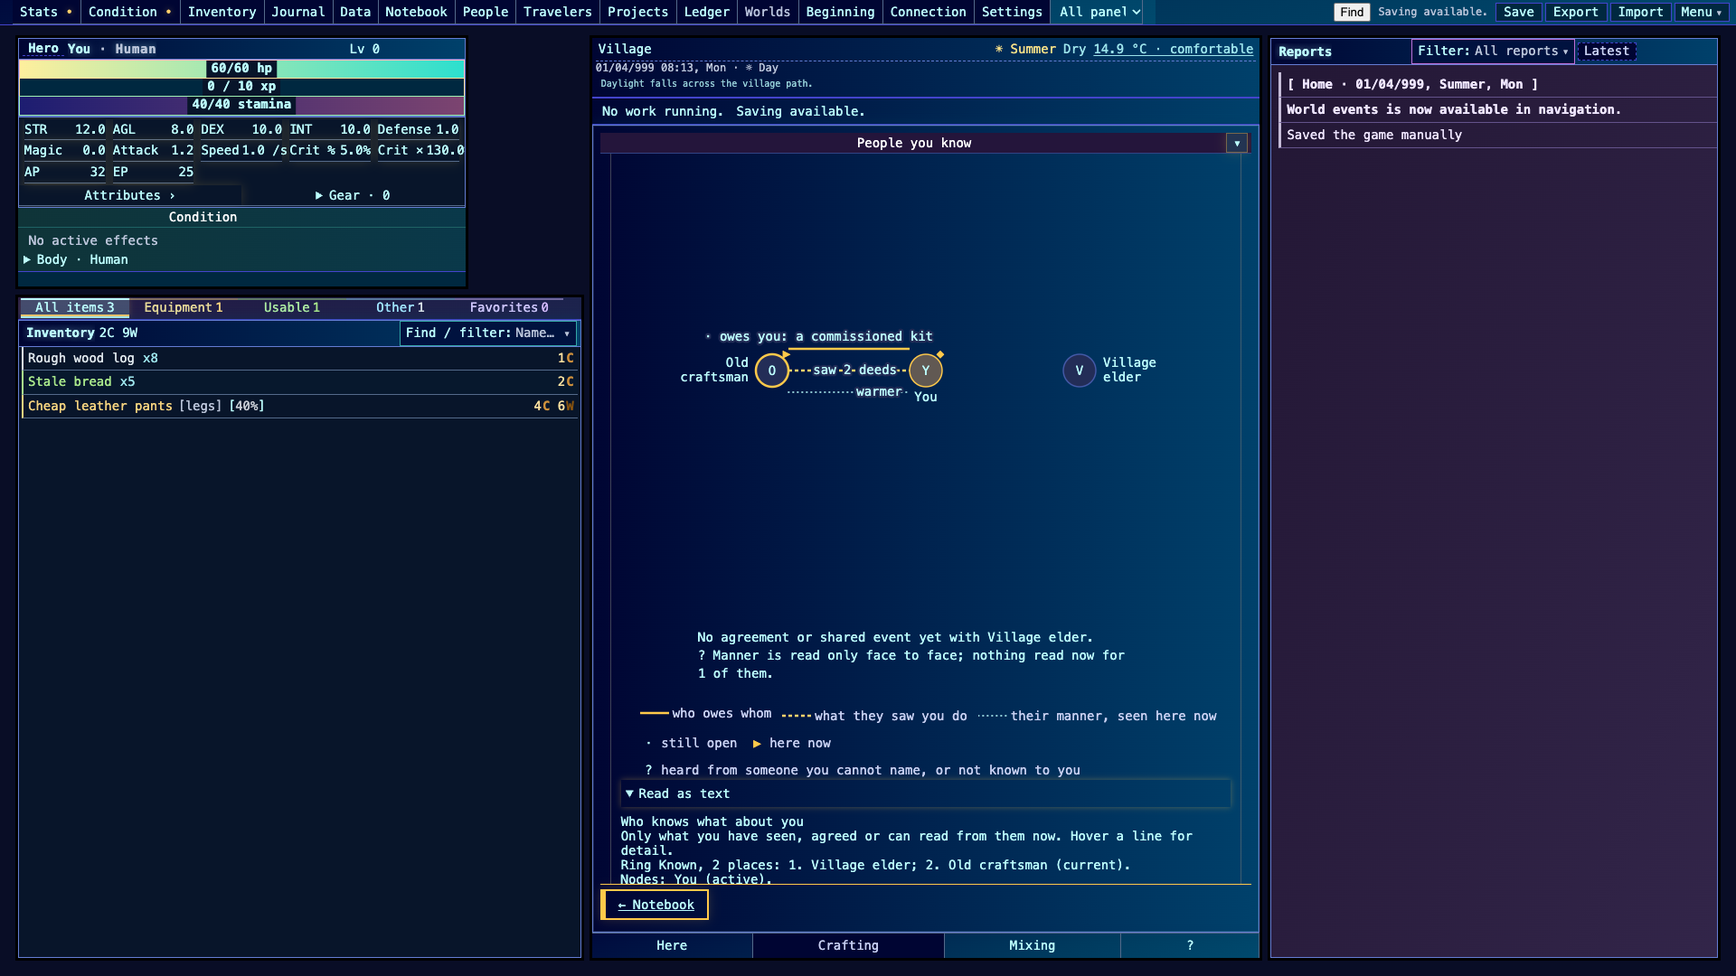
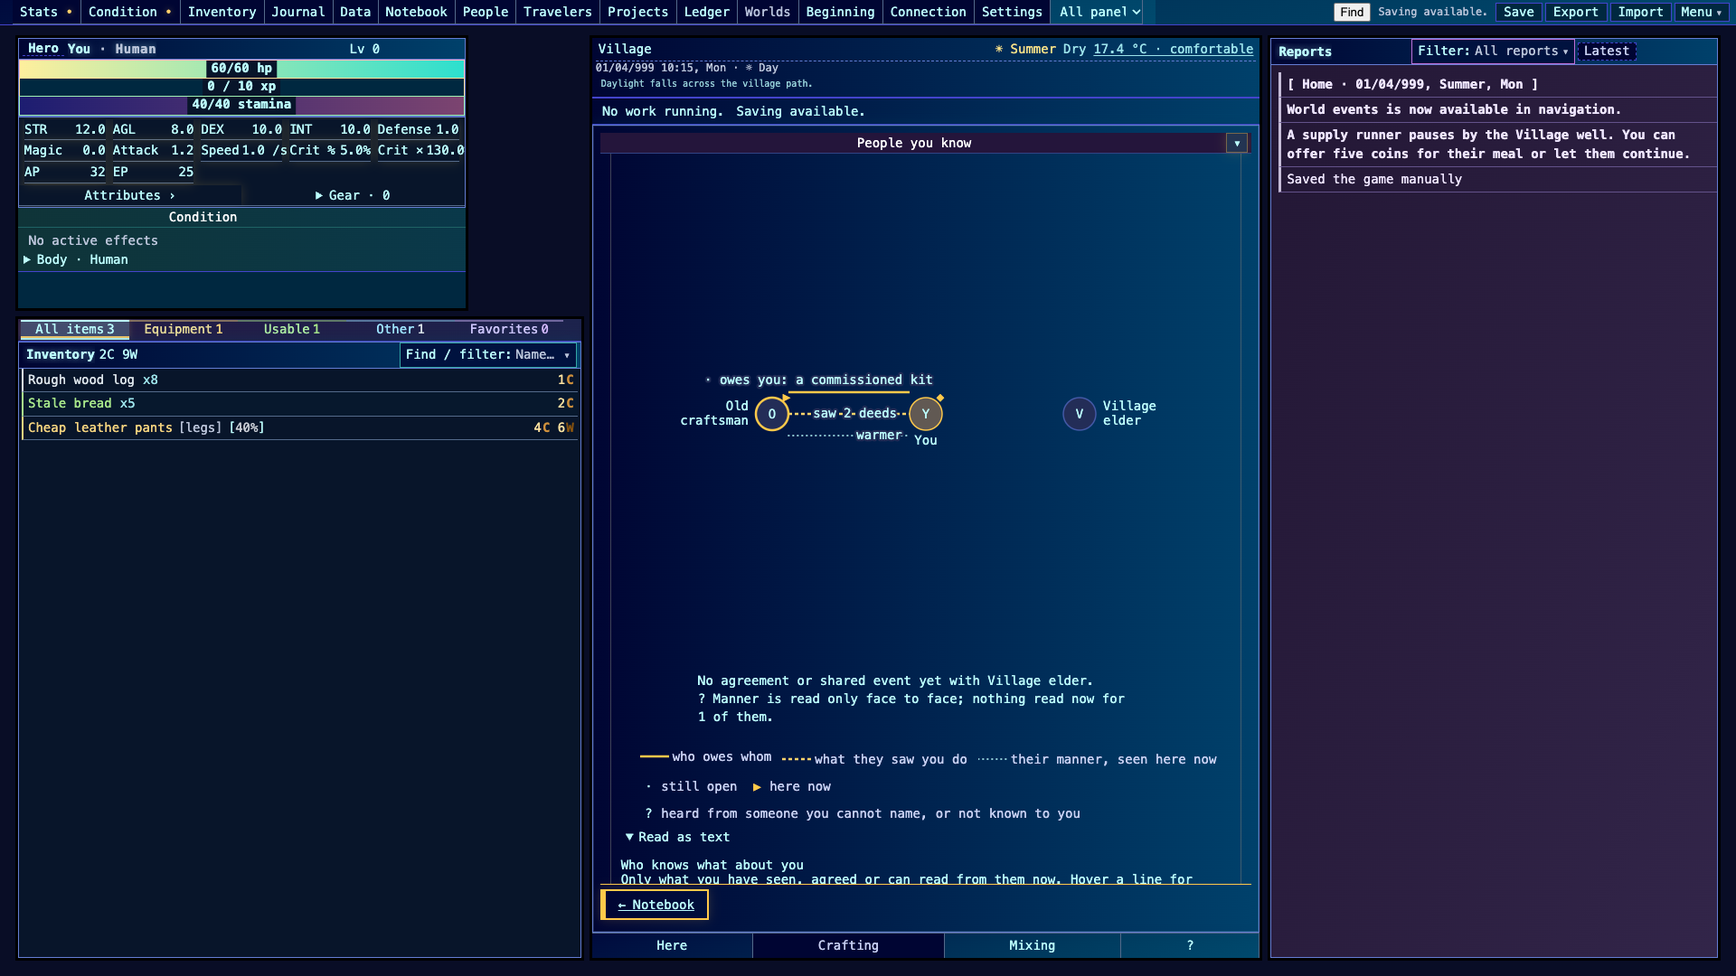
RPX11 round 2: bond stages in person cards, web demoted to a disclosure
Round 2 review (reference games, fresh-player test, density, bars, pop-out,
insight, forms, depth) saved in docs/representations/RELATIONSHIP_WEB.md.
Acted on: a five-stage bond ladder from evidence the observer has (Met,
Acquainted, Familiar, Relied on, Close), a one-line glance in each person
card's summary, and a discrete bond bar inside the card through the
existing meter_bar.js track kind, with what moves it next and today's
observed manner. The web is now a closed "Web of who knows what" with a
count, since a fresh life opened onto a large one-node figure.

Checks: focused tests 20 pass; check:docs clean; 1920x1080 browser proof
on bundle v0.6-a682e3246431 through the slot limiter, 0 page errors. Full
suite left to the coordinator at merge.

diff --git a/src/people_ui.js b/src/people_ui.js
@@ -1,17 +1,20 @@
 import {knownPeopleView} from "./people_knowledge.js";
 import {domainRegistry} from "./domain_registry.js";
-import {relationshipWebForState} from "./relationship_web_view.js";
+import {relationshipWebPeople} from "./relationship_web_view.js";
+import {relationshipWebSpec, relationshipGlance, relationshipStageMeter} from "./ui/relationship_web.js";
 import {renderFigure} from "./ui/figure.js";
+import {createMeterBar} from "./meter_bar.js";
 
 const node = (tag, text = "") => {const n = document.createElement(tag); n.textContent = text; return n;};
 export function createPeopleOverview() {
     const panel = node("section"); panel.id = "known_people_panel"; panel.className = "expedition_panel known_people_panel";
     panel.append(node("h3", "People you know"), node("p", "What you have learned and what happened between you. Locations are last known or agreed, rather than live reports."));
-    // RPX11 web: a sibling of the cards, never inside one; redrawn only when its spec changes.
-    const web = node("details"); web.id = "relationship_web"; web.className = "relationship_web"; web.open = true;
-    const figure = node("div"), textForm = node("details"), text = node("pre");
+    // RPX11 web: a sibling of the cards, never inside one; redrawn only when its spec changes. Closed by
+    // default: each card's glance line and bond bar answer the frequent question, the web the rarer one.
+    const web = node("details"); web.id = "relationship_web"; web.className = "relationship_web";
+    const webSummary = node("summary", "Web of who knows what"), figure = node("div"), textForm = node("details"), text = node("pre");
     textForm.append(node("summary", "Read as text"), text); text.className = "fig-text";
-    web.append(node("summary", "Web of who knows what"), figure, textForm);
+    web.append(webSummary, figure, textForm);
     const list = node("div"); panel.append(web, list);
     let webSignature = "";
     const cards = new Map();
@@ -21,10 +24,17 @@ export function createPeopleOverview() {
         const shared = name => rows.filter(row => row.name === name).length > 1;
         const title = row => shared(row.name) ? `${row.name} (${row.location.replace(/^[^:]*:\s*/, "")})` : row.name;
         panel.hidden = !rows.length;
-        // The web is an extra view: if its reads fail on an unusual save, hide it and keep the cards.
+        // The web, glance lines and bond bars are extra views: if their reads fail on an unusual save,
+        // hide them and keep the cards.
+        let bonds = new Map();
         try {
-            const spec = rows.length ? relationshipWebForState(state, facts, {rows, memory: domainRegistry.command("memory", "read")?.()}) : null, signature = JSON.stringify(spec);
-            if(signature !== webSignature) {webSignature = signature; if(spec) text.textContent = renderFigure(figure, spec, {idPrefix: "relationship-web"}).text;}
+            const people = rows.length ? relationshipWebPeople(state, facts, {rows, memory: domainRegistry.command("memory", "read")?.()}) : [];
+            bonds = new Map(people.map(person => [person.id, person]));
+            const spec = people.length ? relationshipWebSpec(people) : null, signature = JSON.stringify(spec);
+            if(signature !== webSignature) {
+                webSignature = signature;
+                if(spec) {text.textContent = renderFigure(figure, spec, {idPrefix: "relationship-web"}).text; webSummary.textContent = `Web of who knows what · ${people.length} ${people.length === 1 ? "person" : "people"}`;}
+            }
             web.hidden = !spec;
         } catch(error) {
             web.hidden = true;
@@ -33,13 +43,17 @@ export function createPeopleOverview() {
         for(const row of rows) {
             let card = cards.get(row.id);
             if(!card) {
-                const root = node("details"), heading = node("summary", title(row)), location = node("p"), details = node("div"), history = node("ul");
-                root.dataset.knownPerson = row.id; root.append(heading, location, details, history); list.append(root);
-                card = {root, heading, location, details, history, signature:""}; cards.set(row.id, card);
+                const root = node("details"), heading = node("summary"), name = node("span", title(row)), glance = node("span"), location = node("p"), details = node("div"), history = node("ul"), bond = createMeterBar(document);
+                glance.className = "known_person_glance"; heading.append(name, glance); bond.node.hidden = true;
+                root.dataset.knownPerson = row.id; root.append(heading, bond.node, location, details, history); list.append(root);
+                card = {root, heading, name, glance, bond, location, details, history, signature:""}; cards.set(row.id, card);
             }
-            const signature = JSON.stringify([title(row), row]);
+            const person = bonds.get(row.id), signature = JSON.stringify([title(row), row, person || null]);
             if(signature !== card.signature) {
-                card.signature = signature; card.heading.textContent = title(row); card.location.textContent = row.location;
+                card.signature = signature; card.name.textContent = title(row); card.location.textContent = row.location;
+                // Glance first (stage and what needs attention), the bond bar one click away inside the card.
+                card.glance.textContent = person ? ` · ${relationshipGlance(person)}` : "";
+                card.bond.node.hidden = !person; if(person) card.bond.update(relationshipStageMeter(person));
                 if(row.accounts?.length){
                     card.details.replaceChildren(node('h4','Known capabilities and services'),node('p','These are your learned accounts. Current condition, private possessions and unoffered services are not assessed here. Use the person’s local service for current terms.'));
                     for(const account of row.accounts){const entry=node('div');entry.dataset.personAccount=account.id;entry.append(node('p',account.text),node('small',`${account.basis}${Number.isFinite(account.at)?` · played minute ${account.at}`:''}`));card.details.append(entry);}

diff --git a/tests/relationship_web.test.js b/tests/relationship_web.test.js
@@ -1,7 +1,8 @@
 import test from 'node:test';
 import assert from 'node:assert/strict';
 import {createDom} from '../scripts/headless/dom.mjs';
-import {relationshipWebSpec, WEB_LIMITS} from '../src/ui/relationship_web.js';
+import {relationshipWebSpec, WEB_LIMITS, relationshipStage, relationshipGlance, relationshipStageMeter, RELATIONSHIP_STAGES} from '../src/ui/relationship_web.js';
+import {normalizeMeter} from '../src/meter_bar.js';
 import {relationshipWebPeople, relationshipWebForState} from '../src/relationship_web_view.js';
 import {figureText, renderFigure, validateFigureSpec} from '../src/ui/figure.js';
 import {RELATIONSHIP_WEB_FIXTURES, RELATIONSHIP_WEB_PEOPLE} from '../src/ui/preview/fixtures/relationship_web.js';
@@ -91,8 +92,12 @@ test('the web renders as a sibling of the cards in the People panel with a text 
         assert.equal(web.closest('[data-known-person]'), null);
         assert.equal(web.querySelector('[data-known-person]'), null);
         assert.match(web.querySelector('pre.fig-text').textContent, /owes you: a commissioned kit/);
+        assert.equal(web.open, false, 'the web is a closed disclosure; cards carry the glance');
+        assert.match(web.querySelector('summary').textContent, /Web of who knows what · 1 person/);
         const card = people.panel.querySelector('[data-known-person="oldCraftsman"]');
-        assert.doesNotMatch(card.textContent, /owes|Who knows what/);
+        assert.equal(card.querySelector('summary .known_person_glance').textContent, ' · Familiar · here · owes you');
+        assert.match(card.querySelector('.meter-bar .meter-bar-label').textContent, /Bond: Familiar/);
+        assert.doesNotMatch(card.textContent, /Who knows what|99|fear/);
         const svg = web.querySelector('svg'); people.render(state, met);
         assert.equal(web.querySelector('svg'), svg, 'an unchanged spec is not redrawn');
     } finally { delete globalThis.document; }
@@ -111,4 +116,21 @@ test('edge labels: no two placed label boxes overlap in the populated fixture', 
         const a = boxes[i], b = boxes[j];
         assert.ok(!(a.x0 < b.x1 && a.x1 > b.x0 && a.y0 < b.y1 && a.y1 > b.y0), `labels ${i} and ${j} overlap`);
     }
+});
+
+test('relationship stages climb only on evidence the observer has, and the bar says what moves it', () => {
+    const base = {id: 'a', name: 'Ann', here: false, owes: [], saw: []};
+    const word = person => relationshipStage(person).word;
+    assert.equal(word(base), 'Met');
+    assert.equal(word({...base, saw: ['x']}), 'Acquainted');
+    assert.equal(word({...base, owes: [{by: 'you', label: 'a debt'}]}), 'Familiar');
+    assert.equal(word({...base, owes: [{by: 'you', label: 'a debt', settled: true}]}), 'Relied on');
+    assert.equal(word({...base, owes: [{by: 'you', label: 'a debt', settled: true}], manner: {line: 'Warmer toward you.', warm: true, heard: false}}), 'Close');
+    assert.equal(relationshipStage({...base, manner: {line: 'Wary of you.', warm: false, heard: false}}).strained, true);
+    assert.equal(relationshipGlance({...base, here: true, owes: [{by: 'them', label: 'x'}, {by: 'you', label: 'y', strained: true}]}), 'Familiar · here · you owe · owes you · needs care');
+    const meter = normalizeMeter(relationshipStageMeter({...base, saw: ['x']}));
+    assert.equal(meter.text, 'Bond: Acquainted 1/4'); assert.equal(meter.discrete, true);
+    assert.match(meter.note, /^Next: /);
+    assert.equal(normalizeMeter(relationshipStageMeter({...base, owes: [{by: 'you', label: 'd', settled: true}], trust: 1})).state, 'complete');
+    assert.equal(RELATIONSHIP_STAGES.length - 1, relationshipStage(base).max);
 });

diff --git a/src/ui/relationship_web.js b/src/ui/relationship_web.js
@@ -68,3 +68,39 @@ export function relationshipWebSpec(people, {id = 'relationship-web', title = 'W
     // Size dial: a small web for a few people, so one acquaintance does not fill the column.
     return {id, size: size ?? (shown.length < WEB_LIMITS.bands ? 560 : 720), title, summary: 'Only what you have seen, agreed or can read from them now. Hover a line for detail.', rings, nodes, edges, notes, legend};
 }
+
+// Relationship stages (round 2, proposal): depth from what the observer knows, never their hidden axes.
+// Each rung names the evidence that reaches it, so the bar can say what moves it next. The words are
+// a per-world dial (a court may say acquaintance, ally, confidant); the evidence rules stay the same.
+export const RELATIONSHIP_STAGES = Object.freeze([
+    {id: 'met', word: 'Met', next: 'share something with them: work, a favour, a question'},
+    {id: 'acquainted', word: 'Acquainted', next: 'see them often or make an agreement with them'},
+    {id: 'familiar', word: 'Familiar', next: 'settle an agreement with them'},
+    {id: 'relied', word: 'Relied on', next: 'after a settled agreement, see them warm toward you or come to trust them yourself'},
+    {id: 'close', word: 'Close', next: ''},
+]);
+const reached = person => {
+    const settled = person.owes.some(o => o.settled), warm = person.manner?.warm === true || person.trust > 0;
+    if (settled && warm) return 4;
+    if (settled) return 3;
+    if (person.saw.length >= 3 || person.owes.length) return 2;
+    return person.saw.length ? 1 : 0;
+};
+/** Stage and its strain, from the same person input as the web. */
+export function relationshipStage(person) {
+    const index = reached(person), stage = RELATIONSHIP_STAGES[index];
+    return {...stage, index, max: RELATIONSHIP_STAGES.length - 1, strained: strained(person)};
+}
+/** One glance line for a person card summary: stage, then only the signals that need attention. */
+export function relationshipGlance(person) {
+    const stage = relationshipStage(person), open = person.owes.filter(o => !o.settled);
+    return [stage.word, person.here ? 'here' : '', open.some(o => o.by === 'you') ? 'you owe' : '', open.some(o => o.by === 'them') ? 'owes you' : '',
+        stage.strained ? 'needs care' : ''].filter(Boolean).join(' · ');
+}
+/** A meter_bar.js spec (discrete track) for the stage, with what moves it and what was read today. */
+export function relationshipStageMeter(person) {
+    const stage = relationshipStage(person);
+    return {id: `bond.${person.id}`, label: `Bond: ${stage.word}`, kind: 'track', value: stage.index, max: stage.max, discrete: true,
+        note: stage.next ? `Next: ${stage.next}.` : 'The highest stage this world names.',
+        ...(person.manner ? {observation: {text: `Seen here now: ${person.manner.line.replace(/\.$/, '')}`}} : {})};
+}

diff --git a/docs/representations/RELATIONSHIP_WEB.md b/docs/representations/RELATIONSHIP_WEB.md
@@ -182,3 +182,159 @@ own traced rumours: a "you asked who told them" verb that records a teller
 into the observer's knowledge, so the ripple fills ring by ring. (3) Read
 debts from the owed-ledger sources once merged. (4) RW3 exposure map for a
 hidden-identity start, with its per-world fact list.
+
+## Round 2 (2026-10-30, proposals)
+
+Brief: [round 2](../gm/dispatch/ui-refactor-wave-2026-10-29/ROUND2_BRIEF.md). Everything here,
+round 1 included, is the current best and open to replacement with a reason (AD45).
+
+### R2.1 How other games do it
+
+Claims are from general knowledge of these games' public play and docs, not from a play
+session this round; the "adapt" column is inference.
+
+| Game | What the player sees | Easy / costly | Idea adapted |
+|---|---|---|---|
+| Crusader Kings III | Opinion as a number with a hover breakdown of signed reasons; hooks and secrets as separate icons | Easy to see *why*; costly in reading load and numbers without felt meaning | Every stage and edge carries its *reason* (the evidence), shown on hover or in the text form |
+| RimWorld | Social tab: a list of pawns with an opinion number, the breakdown in a tooltip | One list answers "who likes whom"; tooltips hide the point | A list, not a graph, is the frequent view; reasons one hover away |
+| Stardew Valley | Heart bars per person, gifts this week, a birthday | Glanceable and warm; hides that hearts are a hidden number | The **bond bar** with discrete steps and a "next" line (adapted, with stages from known evidence rather than a hidden number) |
+| Persona 5 | Confidant ranks 1-10, what the next rank unlocks | Clear depth and goals | **Stages that say what moves them** and what the next one means |
+| Dwarf Fortress | Plain relationship lists in a unit's thoughts | Honest, dense, no shape | Plain-words text form stays first-class |
+| The Sims 4 | Two bars (friendship, romance) per relationship | Two axes at a glance | Keep axes separate when a world has more than one (dial below) |
+
+Our own references: the thematic UI owner's "small contextual bars" and the existing
+`meter_bar.js` track kind already give the bar; no new shape was needed (UR79).
+
+### R2.2 Fresh-player test (from a fresh life, then the craftsman fixture)
+
+Five-second read before this round: a large empty figure with one node ("Village elder")
+dominated the People view; the person card showed only a name. Terms with no meaning yet:
+"Web", "manner", "saw 2 deeds". Fixes made (ACT NOW): the web is now a closed disclosure
+with a count; each card's summary says the stage and what needs attention ("Old craftsman ·
+Familiar · here · owes you"); the bar inside says what moves it next.
+
+### R2.3 Split and density (1920×1080)
+
+- **Glance (looked at often):** one line per person in the card summary. Compact.
+- **Bond bar (looked at sometimes):** inside the open card, a discrete track with a "next" note
+  and today's observed manner as its annotation. One click.
+- **Web (looked at rarely):** who owes whom across everyone, closed by default.
+- Split chosen: the web answered two questions (how close is each person; what links us). The
+  bar now answers the first, the web the second.
+
+### R2.4 Bars and small signals
+
+The bond bar answers "how far has this relationship come, by what I have seen?" (UR61). Words
+sit beside it ("Bond: Familiar 2/4", "Next: …"); it reads the same in any card (UR74). Stages:
+Met → Acquainted (a shared event) → Familiar (three shared events, or an agreement) → Relied on
+(an agreement settled) → Close (settled, and warm manner seen or your own trust). The words are
+a per-world dial; the evidence rules are the default. "Needs care" marks strain (wary manner, a
+strained debt) without lowering the stage, since strain and history are different facts.
+
+### R2.5 Pop-out and desktop
+
+Earns a pop-out later: the web is the one view worth a second screen during a social-heavy
+stretch. `renderFigure` draws with the node's own document (MDL13), so a pop-out host can
+mount it; the browser fallback is the disclosure. No badge or notification: a bond stage
+change is a Reports line (R2.14), not an interruption.
+
+### R2.6 Cheats and insight
+
+By default the honest seat does not read `whoKnows` (L14) or anyone's axes toward you. A cheat or
+continuing-insight view is the place for them: the same bar gains a second, marked fill
+("insight: their regard") and the ripple fills from `whoKnows` with each link marked as
+insight-sourced. Sealed secrets stay out: `whoKnows` answers who knows an *event*, and the
+insight view shows only events whose discovery route the seat has opened. The developer
+inspector stays separate. LATER.
+
+### R2.7 Alternative style
+
+Proposed alternative: a **matrix** (people as rows, columns owes / saw / manner / stage) for
+"who knows what about whom" once the web shows NPC-to-NPC links (RPX17). A matrix needs a grid
+layout in `figure.js` or a plain table; at today's data (edges only to you) a table is the
+person-card list itself, so no second style was built. Styles keep tokens only, so Luminous
+and Neutral both work.
+
+### R2.8 Use what we have
+
+Used: `meter_bar.js` (bond bar), `figure.js` (web), `observer_view.js`, `knownPeopleView`
+rows, `reactionLine`, custody loans. Read model to switch to: the cast records' `relations`,
+`knows` and `wants` (lead-run pipeline, `scripts/lead_run/batch_lib.mjs`). They are not in
+runtime `src/` on master yet; when a cast pack exposes them, `relationshipWebPeople` gains
+`relations` as known edges with their `basis`, `knows` as "saw/told" rows, and `wants` as a
+glance chip. That is the switch-over point.
+
+### R2.9 Unconventional option
+
+**The room tells you.** Instead of a meter, when you enter a place the Around-you line for
+each present person carries their manner as one short observed sentence ("Orr looks up and
+nods"), drawn from the same `reactionLine`, and the web is the remembered summary of those
+moments. Worth a later slice with rep-talk; costs a per-world phrase set.
+
+### R2.10 Audit gaps
+
+- Other seats: by default the adapter reads the observer's records, so a thin life or bystander seat
+  shows fewer stages, not wrong ones. Not yet tested with a non-player observer (needs a seat
+  that controls another actor).
+- Empty state: no known people hides the panel (existing). Error: the web, glance and bar hide
+  and the cards stay.
+- Persistence: none (derived).
+- Performance: one projection per People render, reusing the panel's rows; the figure redraws
+  only on a changed spec; one meter per card.
+- Accessibility: the bar has `role=progressbar` with value text; the web has its text form;
+  effects off keeps every fact. Not checked at 21 px this round.
+
+### R2.11-R2.21 (remaining items, short)
+
+- **Abstraction (R2.11):** a directed multigraph with typed, reasoned edges plus a per-node
+  stage track. Organizations and family tree can reuse the stage track for standing and kin
+  closeness.
+- **Open for improvement (R2.12):** known limits: no NPC-to-NPC edges; stages are a heuristic
+  ladder; debts duplicate rep-economy's owed sources until merged.
+- **Flourish (R2.13):** a short settle glow on the bar when the stage rises (UR38, effects-off
+  safe). LATER.
+- **Reports and center (R2.14):** proposed Reports line: "Bond: Old craftsman is now Familiar
+  (you made an agreement)." Owned by rep-time's Reports shell.
+- **Fold into existing UI (R2.16):** done: glance and bar live in the existing person cards; no
+  new surface.
+- **Later volumes (R2.17):** larger casts are handled by the 16-person web cap and the list;
+  stage words and evidence are data, so a later world adds rows (court ranks, sworn bonds).
+- **Form fits subject (R2.18):** stage → bar (a track); who owes whom → graph; who knows what
+  about whom → matrix later; reasons → prose. The circle stays only for the web.
+- **Levels and depth (R2.19):** the five-stage ladder with a "next" line; depth one click away.
+- **Semantic roles (R2.20):** edge kinds are roles (`owes`, `saw`, `manner`, `your trust`).
+  Flair sketch: in a gaslit city, the web as a pinned evidence board with string and wax
+  seals; in a cultivation world, bonds as karmic threads whose thickness is the stage.
+- **Draft (R2.21):** round 1's web is kept but demoted from the default view.
+
+### Round 2 ledger
+
+**ACT NOW (done):** bond stages (`RELATIONSHIP_STAGES`, `relationshipStage`,
+`relationshipGlance`, `relationshipStageMeter`); card glance line and bond bar in
+`people_ui.js`; web closed by default with a count; tests and 1920×1080 proof extended.
+
+**ACCOUNT FOR NOW:** switch to cast records when they reach runtime (R2.8); read debts from
+rep-economy's owed sources after merge; Reports bond line through rep-time's shell.
+
+**LATER / DELEGATE:**
+- Click a person on the web to select their card (FLR4 consumer). Sonnet, small. Done: click
+  focuses the card; test.
+- Insight view: marked insight fill on the bar and a `whoKnows` ripple. Sonnet, medium. Done:
+  insight seat shows it, honest seat does not; test both.
+- Matrix layout for NPC-to-NPC knowledge. Sonnet, medium, after NPC edges exist. Done: grid in
+  `figure.js` with a test.
+- Room-tells-you manner lines (R2.9) with rep-talk. Opus design, Sonnet build.
+
+Model use this round: done in this session rather than with Sonnet subagents, since the pieces
+were small and the 5-hour window was at 72% (the brief pauses launches past 80%).
+
+### Round 2 checks
+
+- `node --test tests/relationship_web.test.js tests/figure.test.js tests/people_knowledge.test.js`:
+  20 pass (adds the stage ladder, glance line, bond bar in the card, web closed by default).
+- `npm run check:docs`: clean for this doc.
+- Browser proof at 1920×1080 through the slot limiter on bundle `v0.6-a682e3246431`: 0 page
+  errors; elder card reads "Village elder · Met"; craftsman card reads "Old craftsman ·
+  Familiar · here · owes you" with "Bond: Familiar 2/4" and today's observed manner
+  (`evidence/relationship-web/game-craftsman-card-bond.png`).
+- Full `npm test` not run (coordinator's instruction; it runs at merge).
